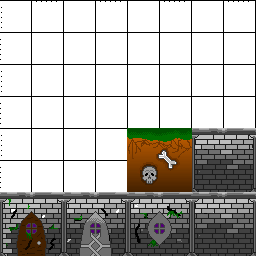
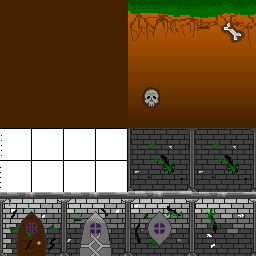
touch controls
- added touch controls

diff --git a/scene/game.js b/scene/game.js
@@ -11,16 +11,34 @@ export default class Game extends Phaser.Scene{
         //this will be the central place where all the game settings come from
         this.gameSetting = new Setting;
         this.player = new Player;
+        this.jump_point = null
+        this.move_point = null
+        this.fired = false
+        this.mobile = true
+        this.start_left = 0
     }
 
     preload(){
-
+        //this is the tile map for all the platform blocks
         this.load.spritesheet('tiles', './res/Death game - Tile map.png', {
             frameWidth: 64,
             frameHeight: 64
         })
 
+        //this is the spritesheet for the cat
         this.load.spritesheet('cat', './res/Death game - cat.png', {
+            frameWidth: 64,
+            frameHeight: 64
+        })
+
+        //these are for all the objects that kill the player
+        this.load.spritesheet('death', './res/spikes.png', {
+            frameWidth: 64,
+            frameHeight: 64
+        })
+
+        //this is for the portal
+        this.load.spritesheet('portal', './res/portal.png', {
             frameWidth: 64,
             frameHeight: 64
         })
@@ -28,6 +46,10 @@ export default class Game extends Phaser.Scene{
     }
 
     create(){
+
+        //for touch controls
+        this.input.addPointer(3)
+        
         //for the buttons
         this.spaceBar = this.input.keyboard.addKey(Phaser.Input.Keyboard.KeyCodes.SPACE)
         this.d = this.input.keyboard.addKey(Phaser.Input.Keyboard.KeyCodes.D)
@@ -35,62 +57,171 @@ export default class Game extends Phaser.Scene{
 
         //this creates the platform group
         this.platform = this.physics.add.staticGroup()
-        
-        this.cat = this.physics.add.sprite(30, 30, 'cat')
 
+        //this creates the platform for the deadly objects
+        this.deadly = this.physics.add.staticGroup()
+
+        //this creates a portal the the player has to get the ghost to
+        this.port = this.physics.add.staticSprite( this.gameSetting.portal_pos[this.gameSetting.lv_ind][0],this.gameSetting.portal_pos[this.gameSetting.lv_ind][1], 'portal', 0)
+        
+        //this creates the cat
+        this.cat = this.physics.add.sprite(30, 30, 'cat', 1)
+        //adds a variable alive to the cat
+        this.cat.alive = true
+
+        //this adds a collider between the cat and the various game objects
         this.physics.add.collider(this.cat, this.platform)
 
+        this.physics.add.collider(this.cat, this.deadly, this.player.dies, null, this)
+        this.physics.add.collider(this.cat, this.port, this.changeLevel, null, this)
+        this.port.body.enable = false
+        this.storedx = 0
+        this.newx = 0
+        /* this is a clock to test the level transitions
         const myClock = this.time.addEvent({
             delay: 3000, 
             callback: this.changeLevel,
             callbackScope: this,
             loop: false, // Repeat indefinitely
-        });
+        });*/
 
     }
 
     update(){
+        //for touch controls
+        if(this.input.pointer1.isDown){
+            if(this.input.pointer1.x >= 420){
+                this.jump_point = this.input.pointer1
+            }
+            if(this.input.pointer1.x < 420){
+                this.move_point = this.input.pointer1
+            }
+        }
+        if(this.input.pointer2.isDown){
+            if(this.input.pointer2.x >= 420){
+                this.jump_point = this.input.pointer2
+            }
+            if(this.input.pointer2.x < 420){
+                this.move_point = this.input.pointer2
+            }
+        }
+        if(this.jump_point != null){
+            this.player.jump(this.cat)
+            if(this.jump_point.isDown === false){
+                this.jump_point = null
+            }
+        }
+        if(this.move_point != null){
+            if(this.fired === false){
+                this.start_left = this.move_point.x
+                this.fired = true
+            }
+            if(this.move_point.x < this.start_left-30){
+                this.cat.setVelocityX(-300)
+            }
+            else if(this.move_point.x > this.start_left+30){
+                this.cat.setVelocityX(300)
+            }
+            else{
+                this.cat.setVelocityX(0)
+            }
+            if(this.move_point.isDown === false){
+                this.move_point = null
+                this.start_left = 0
+                this.fired = false
+                this.cat.setVelocityX(0)
+            }
+        }
+        
+        /*
+        if(this.input.pointer1.isDown || this.input.pointer2.isDown){
+            
+
+
+            if(this.input.pointer1.x <= 420){
+                this.player.move_dir(this.cat, 'right')
+                this.newx = this.input.pointer1.x
+                console.log("left side")
+                if(this.newx > this.storedx){
+                    this.cat.x += 5
+                    this.storedx +=5
+                }
+                if(this.newx < this.storedx){
+                    this.cat.x -= 5
+                    this.storedx -=5
+                }
+            }
+            if(this.input.pointer2.x <= 420){
+                this.player.move_dir(this.cat, 'right')
+                this.newx = this.input.pointer2.x
+                
+                
+            }
+            if(this.input.pointer1.x >= 420 || this.input.pointer2.x >= 420){
+                this.player.jump(this.cat)
+            }
+            
+        }
+        */
+
         //this moves the cat
         this.moveButtons()
 
-        //this will change what maps generated
-        if(this.gameSetting.cur_level === 'tutorial'){
-            loadLevel(this.gameSetting.tutorial_lv, this.platform)
+        this.player.ghost_mode(this.cat)
+        
+        if(this.cat.y <= 0){
+            this.player.reset(this.cat)
+        }
+        if(this.cat.alive === false){
+            this.port.body.enable = true
         }
 
-        if(this.gameSetting.cur_level === 'lever'){
-            loadLevel(this.gameSetting.lever_lv, this.platform)
+        //this will change what maps generated
+        if(this.gameSetting.cur_level === 'tutorial' && this.gameSetting.tutorial_loaded === false){
+            loadLevel( this.gameSetting.tutorial_lv, this.platform, this.deadly, this.port, this.gameSetting, this.physics)
+            this.gameSetting.tutorial_loaded = true
+           
+        }
+
+        if(this.gameSetting.cur_level === 'lever' && this.gameSetting.lever_loaded === false){
+            loadLevel( this.gameSetting.lever_lv, this.platform, this.deadly, this.port, this.gameSetting)
+            this.gameSetting.lever_loaded = true
         }
 
         if(this.gameSetting.cur_level === 'jump'){
-            loadLevel(this.gameSetting.jump_lv, this.platform)
+            loadLevel(this.gameSetting.jump_lv, this.platform, this.deadly, this.port, this.gameSetting)
         }
 
         if(this.gameSetting.cur_level === 'saw'){
-            loadLevel(this.gameSetting.saw_lv, this.platform)
+            loadLevel( this.gameSetting.saw_lv, this.platform, this.deadly, this.port, this.gameSetting)
         }
         
     }
     changeLevel(){
+ 
         this.gameSetting.lv_ind += 1
         this.gameSetting.cur_level = this.gameSetting.lv_list[this.gameSetting.lv_ind]
+        this.player.reset(this.cat)
+        this.port.body.enable = false
+
     }
 
     moveButtons(){
-        if(this.spaceBar.isDown){
-            this.player.jump(this.cat)
-        }
+        if(this.mobile === false){
+            if(this.spaceBar.isDown){
+                this.player.jump(this.cat)
+            }
 
-        if(this.a.isDown){
-            console.log("a clicked")
-            this.player.move_dir(this.cat, 'left')
+            if(this.a.isDown){
+                
+                this.player.move_dir(this.cat, 'left')
+            }
+            else if(this.d.isDown){
+                this.player.move_dir(this.cat, 'right')
+            }
+            else {
+                this.cat.setVelocityX(0)
+            }
         }
-        else if(this.d.isDown){
-            this.player.move_dir(this.cat, 'right')
-        }
-        else {
-            this.cat.setVelocityX(0)
-        }
-        
     }
 }

diff --git a/scene/settings.js b/scene/settings.js
@@ -3,15 +3,26 @@ export class Setting {
         //this is just to test if the settings class works
         this.speed = 10;
 
+
+        this.tutorial_loaded = false
+        this.lever_loaded = false
+
         this.lv_list = ['tutorial', 'lever', 'jump', 'saw']
+        this.portal_pos = [[700, 50], [180, 250], [60, 60], [80, 80]]
         this.lv_ind = 0
         //this will need to be updated during the game
         this.cur_level = this.lv_list[this.lv_ind]
 
         //there are 13 blocks within each list, and 10 lists within the overall level
-        this.tutorial_lv = [[0,0,0,0,0,0,0,0,1,0,0,0,0],[0,0,0,0,0,0,0,0,1,0,0,0,0],[0,0,0,0,0,0,0,0,1,0,0,0,0],[0,0,0,0,0,0,0,0,1,0,0,0,0],[0,0,0,0,0,0,0,0,0,0,0,0,0],[0,0,0,0,0,0,0,0,0,0,0,0,0],[0,0,0,0,0,0,0,0,0,0,0,0,0],[1,1,1,0,0,0,0,0,0,0,0,0,0],[1,1,1,0,0,0,1,0,1,0,1,0,1],[1,1,1,0,0,0,1,0,1,0,1,0,1]]
+        this.tutorial_lv = [[0,0,0,0,0,0,0,0,1,0,0,0,0],[0,0,0,0,0,0,0,0,2,0,0,0,0],[0,0,0,0,0,0,0,0,3,0,0,0,0],[0,0,0,0,0,0,0,0,3,0,0,0,0],[0,0,0,0,0,0,0,0,0,0,0,0,0],[0,0,0,0,0,0,0,0,0,0,0,0,0],[0,0,0,0,0,0,0,0,0,0,0,0,0],[1,1,1,0,0,0,0,0,0,0,0,0,0],[2,3,2,0,0,0,1,0,0,0,1,0,0],[2,2,2,11,11,11,1,11,11,11,1,11,11]]
         this.lever_lv = [[0,0,1,0,0,0,0,0,0,0,0,0,0],[0,0,1,0,0,0,0,0,0,0,0,0,0],[0,0,1,0,1,0,1,1,0,0,0,1,1],[0,0,1,0,1,0,1,1,0,0,0,0,0],[0,0,0,0,1,0,1,1,0,0,0,0,0],[0,0,0,0,1,0,1,1,1,1,0,0,0],[1,1,1,1,1,0,1,1,0,0,0,0,0],[1,0,0,0,0,0,1,1,0,0,0,0,0],[1,0,0,0,0,0,1,1,0,0,0,1,1],[1,1,1,1,1,1,1,1,1,1,1,1,1]]
         this.jump_lv = [[0,0,0,1,0,0,0,0,0,0,0,0,1],[0,0,0,1,0,0,0,0,0,0,0,0,1],[0,0,0,1,0,0,1,1,1,1,0,0,1],[0,0,0,1,0,0,1,0,0,1,0,0,1],[0,0,0,1,0,0,1,0,0,1,0,0,1],[0,0,0,1,0,0,1,0,0,1,0,0,1],[0,0,0,1,0,0,1,0,0,1,0,0,1],[0,0,0,0,0,0,0,0,0,0,0,0,1],[0,0,0,0,0,0,0,0,0,0,0,0,1],[1,1,1,1,1,1,1,1,1,1,1,1,1]]
         this.saw_lv = [[0,0,0,0,0,0,0,0,0,0,0,0,0],[0,0,0,0,0,0,0,0,0,0,0,0,0],[0,0,0,0,0,0,0,0,1,0,0,0,0],[0,0,0,0,0,0,0,0,1,0,0,0,0],[0,0,0,0,0,0,0,0,0,0,0,0,0],[0,0,0,0,0,0,0,0,0,0,0,0,0],[0,0,0,0,0,0,0,0,0,0,0,0,0],[1,1,1,0,0,0,0,0,0,0,0,0,0],[1,1,1,0,0,0,1,0,1,0,1,0,1],[1,1,1,0,0,0,1,0,1,0,1,0,1]]
+    }
+    reset(){
+        //this is for restarting the game
+        this.lv_ind = 0
+        this.tutorial_loaded = false
+
     }
 }

diff --git a/scene/level.js b/scene/level.js
@@ -1,12 +1,38 @@
-export const loadLevel = function(lv_map, platform){
+export const loadLevel = function(lv_map, platform, deadly, port, setting, physics){
     //this first clears the already existing list
-    platform.clear(true)
+    if(platform != null){
+        platform.clear(true)
+    }
+
+    //if(port === null){
+        //port = physics.add.staticSprite( setting.portal_pos[setting.lv_ind][0],setting.portal_pos[setting.lv_ind][1], 'portal', 0)
+    //}
+    
+
+    //this adds the portal to the new area
+    port.x = setting.portal_pos[setting.lv_ind][0] 
+    port.y = setting.portal_pos[setting.lv_ind][1]
+    port.body.x = setting.portal_pos[setting.lv_ind][0] - 32
+    port.body.y = setting.portal_pos[setting.lv_ind][1] -32
 
     //this creates platforms depending on the map that 
     for(let r = 0; r < lv_map.length; r++){
         for(let c = 0; c < lv_map[0].length; c++){
+            //THESE ARE FOR THE GAME WALLS
             if(lv_map[r][c] == 1){
                 platform.create(32+64*c, 0+64*r, 'tiles', 15)
+            }
+            if(lv_map[r][c] == 2){
+                platform.create(32+64*c, 0+64*r, 'tiles', 11)
+            }
+            if(lv_map[r][c] == 3){
+                platform.create(32+64*c, 0+64*r, 'tiles', 10)
+            }
+
+            //this is for deadly items
+            if(lv_map[r][c] == 11){
+                deadly.create(32+64*c, 0+64*r, 'death', 0)
+                console.log("it gets here")
             }
         }
     }

diff --git a/scene/character.js b/scene/character.js
@@ -1,7 +1,10 @@
+
+
 export class Player{
     constructor(){
-        this.jumpHeight = 500
-        this.speed = 50
+        this.jumpHeight = 700
+        this.speed = 300
+        
     }
     jump(cat){
         if(cat.body.onFloor()){
@@ -17,5 +20,27 @@ export class Player{
             cat.setVelocityX(+this.speed)
         }
         
+    }
+
+    ghost_mode(cat){
+        if(cat.alive === false){
+            cat.setVelocityY(-1000)
+            cat.setTexture('cat', 15) 
+            
+        }
+        
+    }
+
+    dies(cat, deadly){
+        cat.alive = false
+        
+    }
+
+    reset(cat){
+        cat.alive = true
+        cat.x = 30
+        cat.y = 64
+        cat.setVelocityY(+100)
+        cat.setTexture('cat', 1)
     }
 }

diff --git a/main.js b/main.js
@@ -15,8 +15,9 @@ export default new Phaser.Game({
     physics: {
         default: 'arcade',
         arcade: {
+            debug: true,
             gravity: {
-                y: 1000
+                y: 2000
             },
         }
     }
